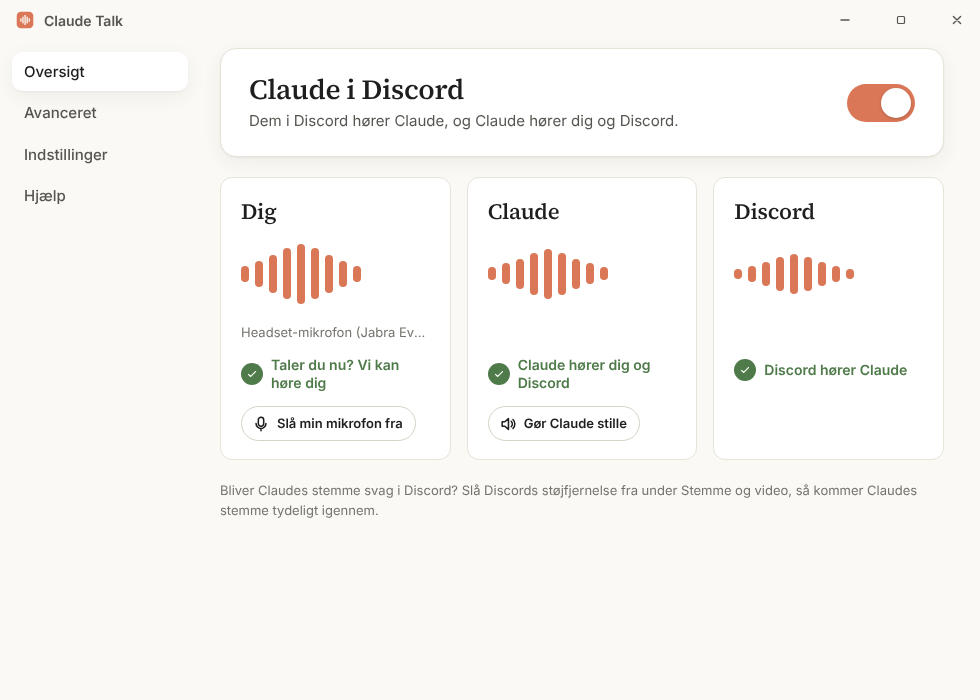
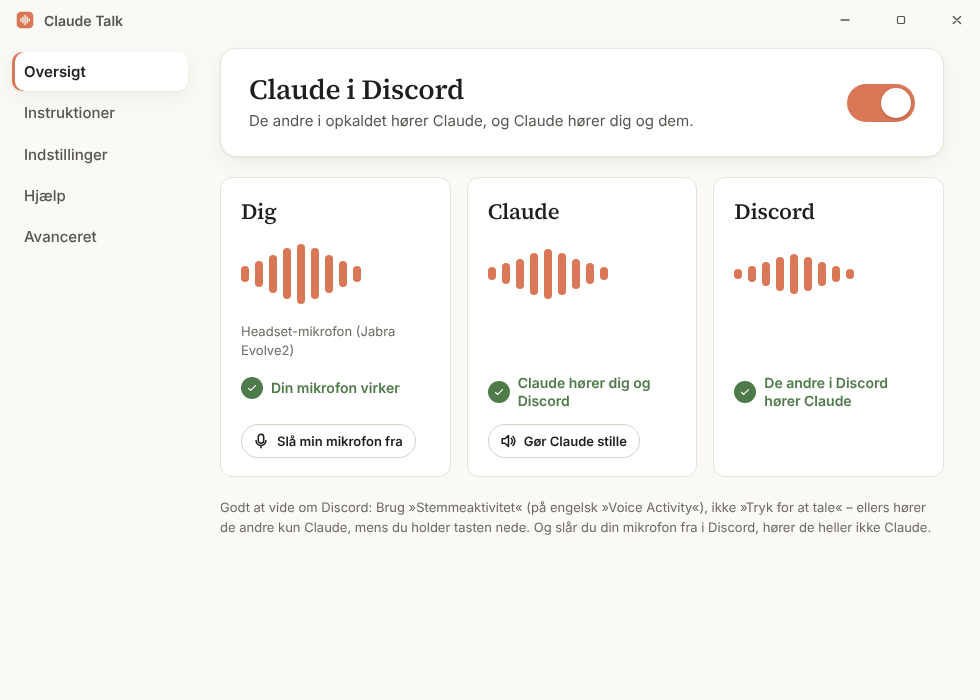
Review round 6 fixes: keep running when the last window closes, echo reference per recording time, no taskkill in the installer
- ExitRequested without a code is prevented: closing the Claude window
  when Claude Talk started with Windows no longer quits it.
- Echo reference rendered for the moment each mic frame was recorded;
  fixed routes judge backlog by delay. The host-wiring test covers mics
  that deliver 2-3 frames at once.
- Speakers added as outputs in Advanced turn echo reduction on.
- Installer hook without taskkill; COM initialised for audio start; a
  failed Chrome/app-mode switch turns the mode off in the settings.
- Tray quit dialog off the main thread; placeholder contrast; onboarding
  Discord step honest; README screenshots current; wording fixes.

Claude-Session: https://claude.ai/code/session_013ADXPYmuNnCFe16UtF42sj

diff --git a/app/src/i18n.ts b/app/src/i18n.ts
@@ -86,7 +86,7 @@ const da = {
     switchOnClaudeMuted: 'Tændt. Claude er gjort stille i Discord, men lytter stadig med.',
     switchOnOnlyYou: 'De andre i opkaldet hører Claude, og Claude hører kun dig.',
     switchOnMicMuted: 'De andre i opkaldet hører Claude. Din mikrofon er slået fra.',
-    claudeNotOpen: 'Claude er ikke åben endnu',
+    claudeNotOpen: 'Claude-vinduet er ikke åbent',
     claudeLogIn: 'Log ind på Claude i Claude-vinduet med din e-mail og koden fra mailen',
     claudeOpenNotListening: 'Tryk på den runde knap med lydbølger i højre side af skrivefeltet i Claude-vinduet',
     showClaude: 'Vis Claude-vinduet',
@@ -137,7 +137,7 @@ const da = {
     updateAction: 'Opdater nu',
     krispTitle: 'Bliver Claudes stemme svag i Discord?',
     krispBody: 'Slå Discords støjfjernelse fra under Stemme og video, så kommer Claudes stemme tydeligt igennem.',
-    discordTips: 'Godt at vide om Discord: Brug »Stemmeaktivering«, ikke »Tryk for at tale« – ellers hører de andre kun Claude, mens du holder tasten nede. Og slår du din mikrofon fra i Discord, hører de heller ikke Claude.',
+    discordTips: 'Godt at vide om Discord: Brug »Stemmeaktivitet« (på engelsk »Voice Activity«), ikke »Tryk for at tale« – ellers hører de andre kun Claude, mens du holder tasten nede. Og slår du din mikrofon fra i Discord, hører de heller ikke Claude.',
   },
 
   errors: {
@@ -235,7 +235,7 @@ const da = {
     hkMuteMic: 'Slå min mikrofon fra og til',
     hkPtt: 'Hold nede for at tale til Claude',
     pttEnable: 'Claude hører dig kun, mens du holder tasten nede',
-    pressKeys: 'Hold Ctrl, Shift eller Alt, og tryk en tast (Esc fortryder)',
+    pressKeys: 'Hold Ctrl, Shift eller Alt, og tryk på en tast (Esc fortryder)',
     change: 'Skift',
     restore: 'Gendan normale lydindstillinger',
     restoreHint: 'Discord bruger igen din almindelige mikrofon, og Claude går ud af opkaldet. Tænd for »Claude i Discord« på Oversigt for at tage Claude med igen.',

diff --git a/app/src/screens/Onboarding.tsx b/app/src/screens/Onboarding.tsx
@@ -24,7 +24,9 @@ export function Onboarding({ info, initial = 'welcome', onDone }: { info: AppInf
     { label: t.onboarding.stepCable, done: info.cableInstalled || !!status?.cableOk },
     { label: t.onboarding.stepMic, done: status?.micState === 'ok' },
     { label: t.onboarding.stepEngine, done: !!status?.engineRunning },
-    { label: t.onboarding.stepDiscord, done: !!status?.engineRunning },
+    // ready for Discord: the sound runs, Discord's microphone exists, and
+    // your microphone works (otherwise Discord would get nothing)
+    { label: t.onboarding.stepDiscord, done: !!status?.engineRunning && (info.cableInstalled || !!status?.cableOk) && status?.micState === 'ok' },
   ];
   const allDone = checks.every((c) => c.done);
   // What can't finish by itself: shown at once when it is certain, otherwise
@@ -76,7 +78,7 @@ export function Onboarding({ info, initial = 'welcome', onDone }: { info: AppInf
           <>
             <h1>{t.onboarding.setupTitle}</h1>
             <p className="lead">{problem ? t.onboarding.setupProblemBody : t.onboarding.setupBody}</p>
-            <div className="progress" role="progressbar" aria-valuenow={progress} aria-valuemin={0} aria-valuemax={100}><div style={{ width: `${progress}%` }} /></div>
+            <div className="progress" aria-label={t.onboarding.setupTitle} role="progressbar" aria-valuenow={progress} aria-valuemin={0} aria-valuemax={100}><div style={{ width: `${progress}%` }} /></div>
             <ul className="steps">
               {checks.map((c, i) => {
                 const revealed = i < shown;

diff --git a/app/src/styles.css b/app/src/styles.css
@@ -325,3 +325,6 @@ button, select, input { font: inherit; color: inherit; }
 .row.preview { flex-direction: column; align-items: stretch; gap: 0.375rem; }
 .row.preview .quote { margin: 0; padding: 0.75rem 1rem; border-left: 3px solid var(--clay); background: var(--sunk); border-radius: 0 var(--radius-s) var(--radius-s) 0; color: var(--ink); line-height: 1.5; }
 .row .small.text { flex: 1; }
+
+/* placeholders: readable in both themes (the browser default is 3.3:1 on the dark card) */
+::placeholder { color: var(--ink-3); opacity: 1; }

diff --git a/engine/src/aec.rs b/engine/src/aec.rs
@@ -200,7 +200,8 @@ mod host_wiring {
     /// rendered once per microphone frame. Source and mic on clocks `ppm` apart.
     /// Returns (echo removed over the last 15 s, the worst 2 s window after
     /// the first 40 s, reference underrun frames).
-    fn run(ref_ms: f64, ppm: f64, seconds: usize) -> (f64, f64, u64) {
+    /// `burst`: microphone frames delivered (and processed) together.
+    fn run(ref_ms: f64, ppm: f64, seconds: usize, burst: usize) -> (f64, f64, u64) {
         let mut aec = EchoReducer::new().unwrap();
         let (mut fan, mut fh) = SourceFanout::new(3, 48000);
         let (mix, mut mh) = OutputMixer::new(9002, 1, FRAME);
@@ -234,19 +235,11 @@ mod host_wiring {
             jr ^= jr << 17;
             (jr % 3001) as f64 - 1500.0
         };
+        // microphone frames waiting to be delivered (a burst)
+        let mut pending: Vec<(usize, f64, Vec<f32>)> = Vec::new();
         for m in 1..frames {
             // the mic clock runs `ppm` slow against the source clock
             let t_mic = m as f64 * 10_000.0 * (1.0 + ppm * 1e-6) + 4_000.0 + jit() * 0.3;
-            loop {
-                let t_push = (k_src as f64 + 1.0) * 10_000.0 + jit();
-                if t_push > t_mic {
-                    break;
-                }
-                let s = &x[k_src * FRAME..(k_src + 1) * FRAME];
-                let st: Vec<f32> = s.iter().flat_map(|v| [*v, *v]).collect();
-                fan.push_at(Some(&st), 2, FRAME, (t_push * 1000.0) as u64);
-                k_src += 1;
-            }
             // mic samples: what the speaker played (source time) `delay` ago
             let end_us = m as f64 * 10_000.0 * (1.0 + ppm * 1e-6);
             let mic: Vec<f32> = (0..FRAME)
@@ -262,29 +255,49 @@ mod host_wiring {
                     }
                 })
                 .collect();
-            mix.render_at(&mut r, (t_mic * 1000.0) as u64);
-            let out = aec.process(&r, &mic);
-            let (ei, eo) = (
-                mic.iter().map(|v| (*v as f64).powi(2)).sum::<f64>(),
-                out.iter().map(|v| (*v as f64).powi(2)).sum::<f64>(),
-            );
-            if m > frames - 100 * 15 {
-                e_in += ei;
-                e_out += eo;
+            pending.push((m, t_mic, mic));
+            if pending.len() < burst {
+                continue;
             }
-            if m > 100 * 40 {
-                w_in += ei;
-                w_out += eo;
-                if m % 200 == 0 {
-                    // windows with real echo in them (not the quiet parts)
-                    if w_in > 1.0 {
-                        worst = worst.min(10.0 * (w_in / w_out.max(1e-20)).log10());
+            // the burst is processed when its last frame has arrived; the
+            // source keeps delivering in real time up to that moment
+            let t_now = t_mic;
+            loop {
+                let t_push = (k_src as f64 + 1.0) * 10_000.0 + jit();
+                if t_push > t_now {
+                    break;
+                }
+                let s = &x[k_src * FRAME..(k_src + 1) * FRAME];
+                let st: Vec<f32> = s.iter().flat_map(|v| [*v, *v]).collect();
+                fan.push_at(Some(&st), 2, FRAME, (t_push * 1000.0) as u64);
+                k_src += 1;
+            }
+            for (m, t_rec, mic) in std::mem::take(&mut pending) {
+                // as host.rs: the reference for when the frame was recorded
+                mix.render_at(&mut r, (t_rec * 1000.0) as u64);
+                let out = aec.process(&r, &mic);
+                let (ei, eo) = (
+                    mic.iter().map(|v| (*v as f64).powi(2)).sum::<f64>(),
+                    out.iter().map(|v| (*v as f64).powi(2)).sum::<f64>(),
+                );
+                if m > frames - 100 * 15 {
+                    e_in += ei;
+                    e_out += eo;
+                }
+                if m > 100 * 40 {
+                    w_in += ei;
+                    w_out += eo;
+                    if m % 200 == 0 {
+                        // windows with real echo in them (not the quiet parts)
+                        if w_in > 1.0 {
+                            worst = worst.min(10.0 * (w_in / w_out.max(1e-20)).log10());
+                        }
+                        w_in = 0.0;
+                        w_out = 0.0;
                     }
-                    w_in = 0.0;
-                    w_out = 0.0;
                 }
             }
-            if m % 50 == 0 {
+            if m % 50 < burst {
                 mh.collect_garbage();
                 fh.collect_garbage();
             }
@@ -304,8 +317,19 @@ mod host_wiring {
     /// dry and moved, and only 4-27 dB of echo were removed).
     #[test]
     fn echo_is_removed_with_the_host_wiring() {
-        for ppm in [0.0, 50.0, -80.0, 100.0, 200.0, -150.0] {
-            let (erle, worst, u) = run(REF_BUFFER_MS, ppm, 240);
+        for (ppm, burst) in [
+            (0.0, 1),
+            (50.0, 1),
+            (-80.0, 1),
+            (100.0, 1),
+            (200.0, 1),
+            (-150.0, 1),
+            (0.0, 2),
+            (100.0, 2),
+            (-80.0, 3),
+        ] {
+            let (erle, worst, u) = run(REF_BUFFER_MS, ppm, 240, burst);
+            print!("{burst} frame(s) at a time, ");
             println!("clocks {ppm} ppm apart: echo reduced by {erle:.1} dB, worst 2 s window {worst:.1} dB (reference underrun frames {u})");
             assert!(
                 erle > 25.0,

diff --git a/engine/src/resample.rs b/engine/src/resample.rs
@@ -141,8 +141,11 @@ impl AdaptiveResampler {
     /// delay (fill + this age) instead of the fill alone: the fill jumps by a
     /// packet whenever the source's and the output's clock phases cross,
     /// the delay does not.
+    /// Negative when the output renders for a moment before the source's
+    /// last delivery (the echo reference, rendered for when a microphone
+    /// frame was recorded).
     pub fn set_input_age(&mut self, seconds: f64) {
-        self.input_age_s = seconds.clamp(0.0, 0.1);
+        self.input_age_s = seconds.clamp(-0.1, 0.1);
     }
 
     /// Called before each pull with the source's restart counter.
@@ -242,10 +245,17 @@ impl AdaptiveResampler {
         let block_in = (out.len() / ch) as f64 / self.nominal;
         let limit = self.target_frames as f64 + (self.target_frames as f64).max(2.0 * block_in);
         let mut available = available;
-        if available as f64 > limit {
+        // A fixed route judges by its delay: what was delivered after the
+        // moment being rendered (a microphone burst) is not a backlog.
+        let ahead = if self.fixed {
+            (-self.input_age_s * self.in_rate as f64).max(0.0) as usize
+        } else {
+            0
+        };
+        if available.saturating_sub(ahead) as f64 > limit {
             // keep the target, but never less than one block plus margin
             let keep = (self.target_frames as f64).max(1.5 * block_in + CHUNK as f64) as usize;
-            let skip = available - keep;
+            let skip = available.saturating_sub(ahead) - keep;
             if let Ok(c) = ring.read_chunk(skip * ch) {
                 c.commit_all();
             }
@@ -257,7 +267,7 @@ impl AdaptiveResampler {
         if self.fixed && self.owed >= 1.0 {
             // A late packet arrived: the fill is above the target by what was
             // already played as silence; drop that much.
-            let excess = available.saturating_sub(self.target_frames);
+            let excess = available.saturating_sub(self.target_frames + ahead);
             let n = (self.owed as usize).min(excess);
             if n > 0 {
                 if let Ok(c) = ring.read_chunk(n * ch) {

diff --git a/app/src-tauri/src/main.rs b/app/src-tauri/src/main.rs
@@ -43,7 +43,7 @@ fn first_close_hint(app: &AppHandle) {
         let (title, text) = if da {
             (
                 "Claude Talk kører videre",
-                "Claude Talk kører videre nede ved uret, så Discord stadig kan høre dig og Claude.\n\nKlik på ikonet ved uret for at åbne vinduet igen. Vil du lukke helt, så højreklik på ikonet og vælg »Luk Claude Talk«.",
+                "Claude Talk kører videre nede ved uret, så Discord stadig kan høre dig og Claude.\n\nKlik på ikonet ved uret for at åbne vinduet igen (kan du ikke se det, så tryk på den lille pil ^ ved uret). Vil du lukke helt, så højreklik på ikonet og vælg »Luk Claude Talk«.",
             )
         } else {
             (
@@ -338,11 +338,15 @@ fn main() {
         })
         .build(context)
         .expect("error while building Claude Talk")
-        .run(|app, event| {
+        .run(|app, event| match event {
+            // The last window closed (the Claude window, when Claude Talk
+            // started with Windows and has no main window): Claude Talk keeps
+            // running by the clock – Discord's microphone depends on it.
+            // An explicit exit (Quit) carries a code and goes through.
+            tauri::RunEvent::ExitRequested { code: None, api, .. } => api.prevent_exit(),
             // Windows ends the session (sign-out, shutdown) or the app exits
             // any other way: Discord gets its own microphone back.
-            if let tauri::RunEvent::Exit = event {
-                shutdown_inner(app, false);
-            }
+            tauri::RunEvent::Exit => shutdown_inner(app, false),
+            _ => {}
         });
 }

diff --git a/app/src-tauri/src/discord.rs b/app/src-tauri/src/discord.rs
@@ -123,6 +123,30 @@ pub fn spawn_watcher(app: AppHandle) {
                                 && !ct_engine::win::host::is_own_device(&e.name)
                         })
                         .unwrap_or(false);
+                // speakers added as an output in Advanced: Discord or Claude
+                // played there reaches the microphone just the same
+                let added: Vec<String> = state
+                    .config
+                    .lock()
+                    .map(|c| {
+                        c.mixer
+                            .outputs
+                            .iter()
+                            .map(|o| o.device_id.clone())
+                            .collect()
+                    })
+                    .unwrap_or_default();
+                let added_speakers = !added.is_empty()
+                    && devices::list(devices::Flow::Render)
+                        .map(|l| {
+                            l.iter()
+                                .any(|e| added.contains(&e.id) && e.form_factor.is_open_air())
+                        })
+                        .unwrap_or(false);
+                if state.added_speakers.swap(added_speakers, Ordering::Relaxed) != added_speakers {
+                    log::info!("speakers among the added outputs: {added_speakers}");
+                    crate::audio::apply_switches(&app);
+                }
                 if state.speakers.swap(speakers, Ordering::Relaxed) != speakers {
                     log::info!(
                         "default output is now {}",

diff --git a/app/src-tauri/src/tray.rs b/app/src-tauri/src/tray.rs
@@ -18,9 +18,9 @@ fn t(lang: &str, key: &str) -> &'static str {
         }
         "claude" => {
             if da {
-                "Åbn Claude"
+                "Åbn Claude-vinduet"
             } else {
-                "Open Claude"
+                "Open the Claude window"
             }
         }
         "switch" => {
@@ -32,9 +32,9 @@ fn t(lang: &str, key: &str) -> &'static str {
         }
         "mute" => {
             if da {
-                "Slå min mikrofon fra"
+                "Min mikrofon er slået fra"
             } else {
-                "Mute my microphone"
+                "My microphone is off"
             }
         }
         "quit" => {
@@ -108,7 +108,12 @@ pub fn create(app: &AppHandle) -> tauri::Result<()> {
                 }
                 after_change(app);
             }
-            "quit" => crate::request_quit(app),
+            // off the main thread: the question dialog must not stop the
+            // Claude window's audio, which the main thread carries
+            "quit" => {
+                let app = app.clone();
+                std::thread::spawn(move || crate::request_quit(&app));
+            }
             _ => {}
         }
     })

diff --git a/engine/src/win/host.rs b/engine/src/win/host.rs
@@ -603,7 +603,14 @@ impl AudioHost {
                         }
                         c.commit_all();
                     }
-                    ref_mix.render(&mut r);
+                    // The reference for the moment this frame was recorded,
+                    // not the moment it is processed: a microphone that
+                    // delivers several frames at once would otherwise get
+                    // a reference that runs dry and moves (round-6 review).
+                    let rest = (raw.slots() / ch) as u64;
+                    let newest = mic_stats.last_push_ns.load(Ordering::Relaxed);
+                    let recorded = newest.saturating_sub(rest * 1_000_000_000 / ENGINE_RATE as u64);
+                    ref_mix.render_at(&mut r, recorded);
                     match reducer.as_mut() {
                         Some(red) => fanout.push(Some(red.process(&r, &m)), 1, FRAME),
                         None => fanout.push(Some(&m), 1, FRAME),

diff --git a/app/src-tauri/src/audio.rs b/app/src-tauri/src/audio.rs
@@ -62,6 +62,9 @@ mod imp {
     const E_ACCESSDENIED: u32 = 0x8007_0005;
 
     pub fn start(app: &AppHandle) {
+        // device lookups below (extra cable, mixer devices) need COM on
+        // this thread; started minimized there is no window to set it up
+        let _com = ct_engine::win::ComGuard::new();
         let state = app.state::<AppState>().inner().clone();
         #[allow(unused_mut)]
         let mut cfg = HostConfig::standard(state.claude_pid.clone());
@@ -174,7 +177,8 @@ mod imp {
             }
         }
         // echo reduction: always, never, or automatically with speakers
-        let speakers = state.speakers.load(Ordering::Relaxed);
+        let speakers =
+            state.speakers.load(Ordering::Relaxed) || state.added_speakers.load(Ordering::Relaxed);
         let echo = match cfg.echo {
             crate::config::EchoMode::On => true,
             crate::config::EchoMode::Off => false,

diff --git a/app/src-tauri/src/state.rs b/app/src-tauri/src/state.rs
@@ -20,6 +20,8 @@ pub struct Inner {
     pub discord_recording: AtomicBool,
     /// The default output is speakers (sound can reach the microphone).
     pub speakers: AtomicBool,
+    /// An output added in Advanced is speakers (same risk).
+    pub added_speakers: AtomicBool,
     /// When the default output was last set back from our cable.
     pub output_fixed_at: Mutex<Option<std::time::Instant>>,
     /// Shortcuts that could not be registered (shown in the app).
@@ -45,6 +47,7 @@ impl Inner {
             discord_needs_restart: AtomicBool::new(false),
             discord_recording: AtomicBool::new(false),
             speakers: AtomicBool::new(false),
+            added_speakers: AtomicBool::new(false),
             output_fixed_at: Mutex::new(None),
             hotkey_problem: Mutex::new(String::new()),
             bridge_probe: Mutex::new(None),

diff --git a/app/src-tauri/src/mixer.rs b/app/src-tauri/src/mixer.rs
@@ -356,7 +356,17 @@ fn set_external_claude_blocking(
             .unwrap_or_else(|p| p.into_inner())
             .as_mut()
         {
-            imp::set_external_claude(h, exe.as_deref())?;
+            if let Err(e) = imp::set_external_claude(h, exe.as_deref()) {
+                // the old routes are gone already: the mode is off now, and
+                // the settings must say so (or the mic stays open for good)
+                state
+                    .config
+                    .lock()
+                    .unwrap_or_else(|p| p.into_inner())
+                    .external_claude = None;
+                state.save_config();
+                return Err(e);
+            }
         }
         crate::audio::apply_switches(app);
     }
